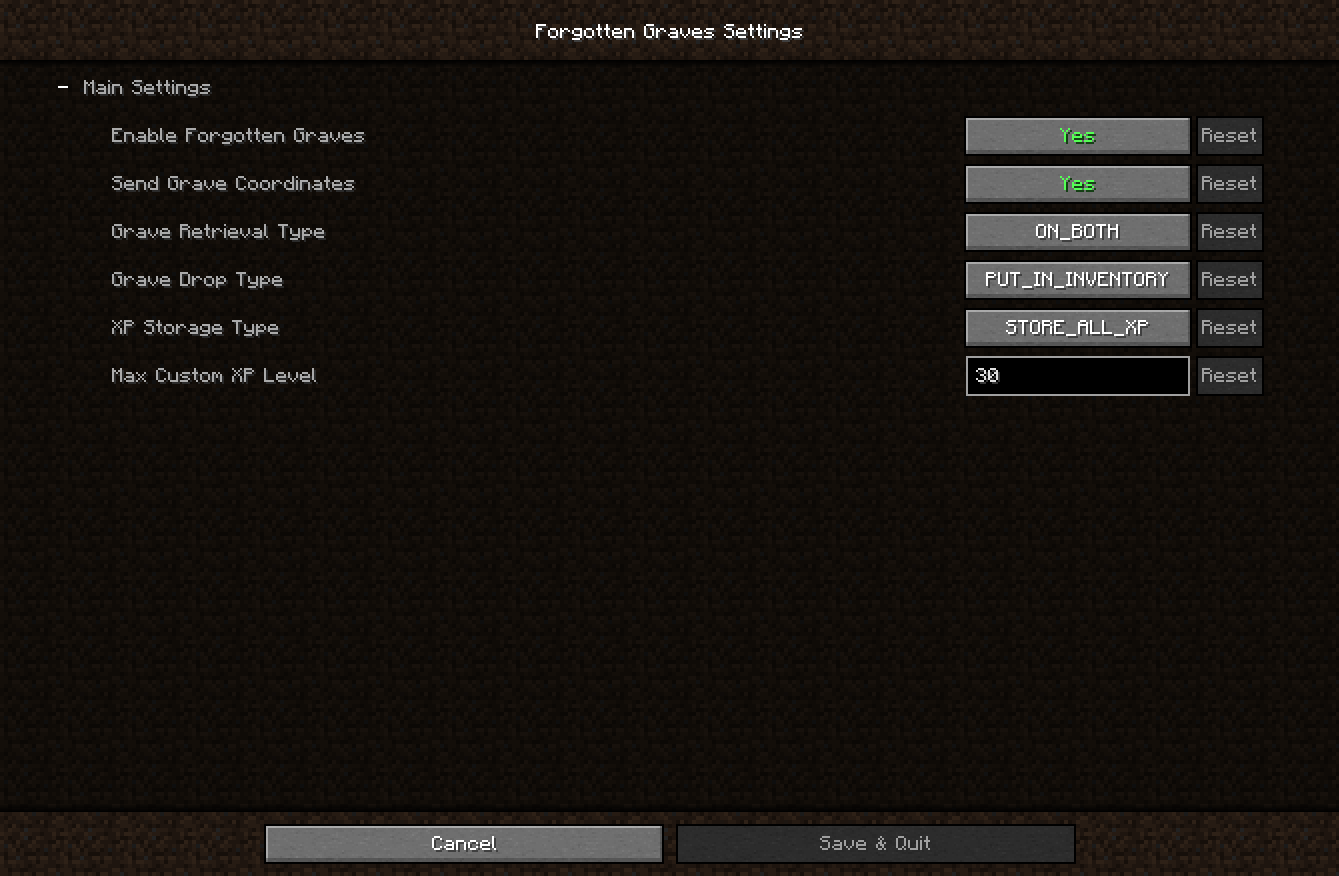
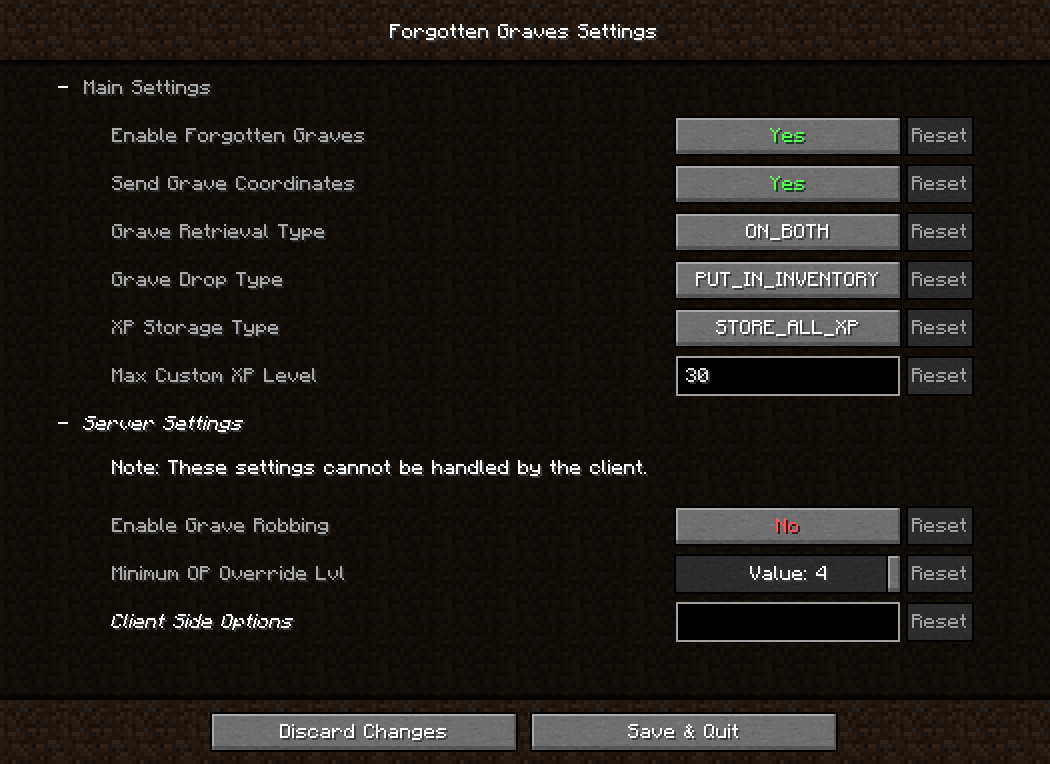
Update Documentation

diff --git a/README.md b/README.md
@@ -43,8 +43,7 @@ If you have any issues with the mod or a feature request, please use the [issue 
 }
 ```
 
-
-*Note: Server-side configuration overrides any user set configuration currently.*
+*Note: Settings that should be handled by the client whilst on dedicated servers can be set via [Client Side Options](https://github.com/ginsm/forgotten-graves/wiki/Settings#client-side-options)*.
 
  
 
